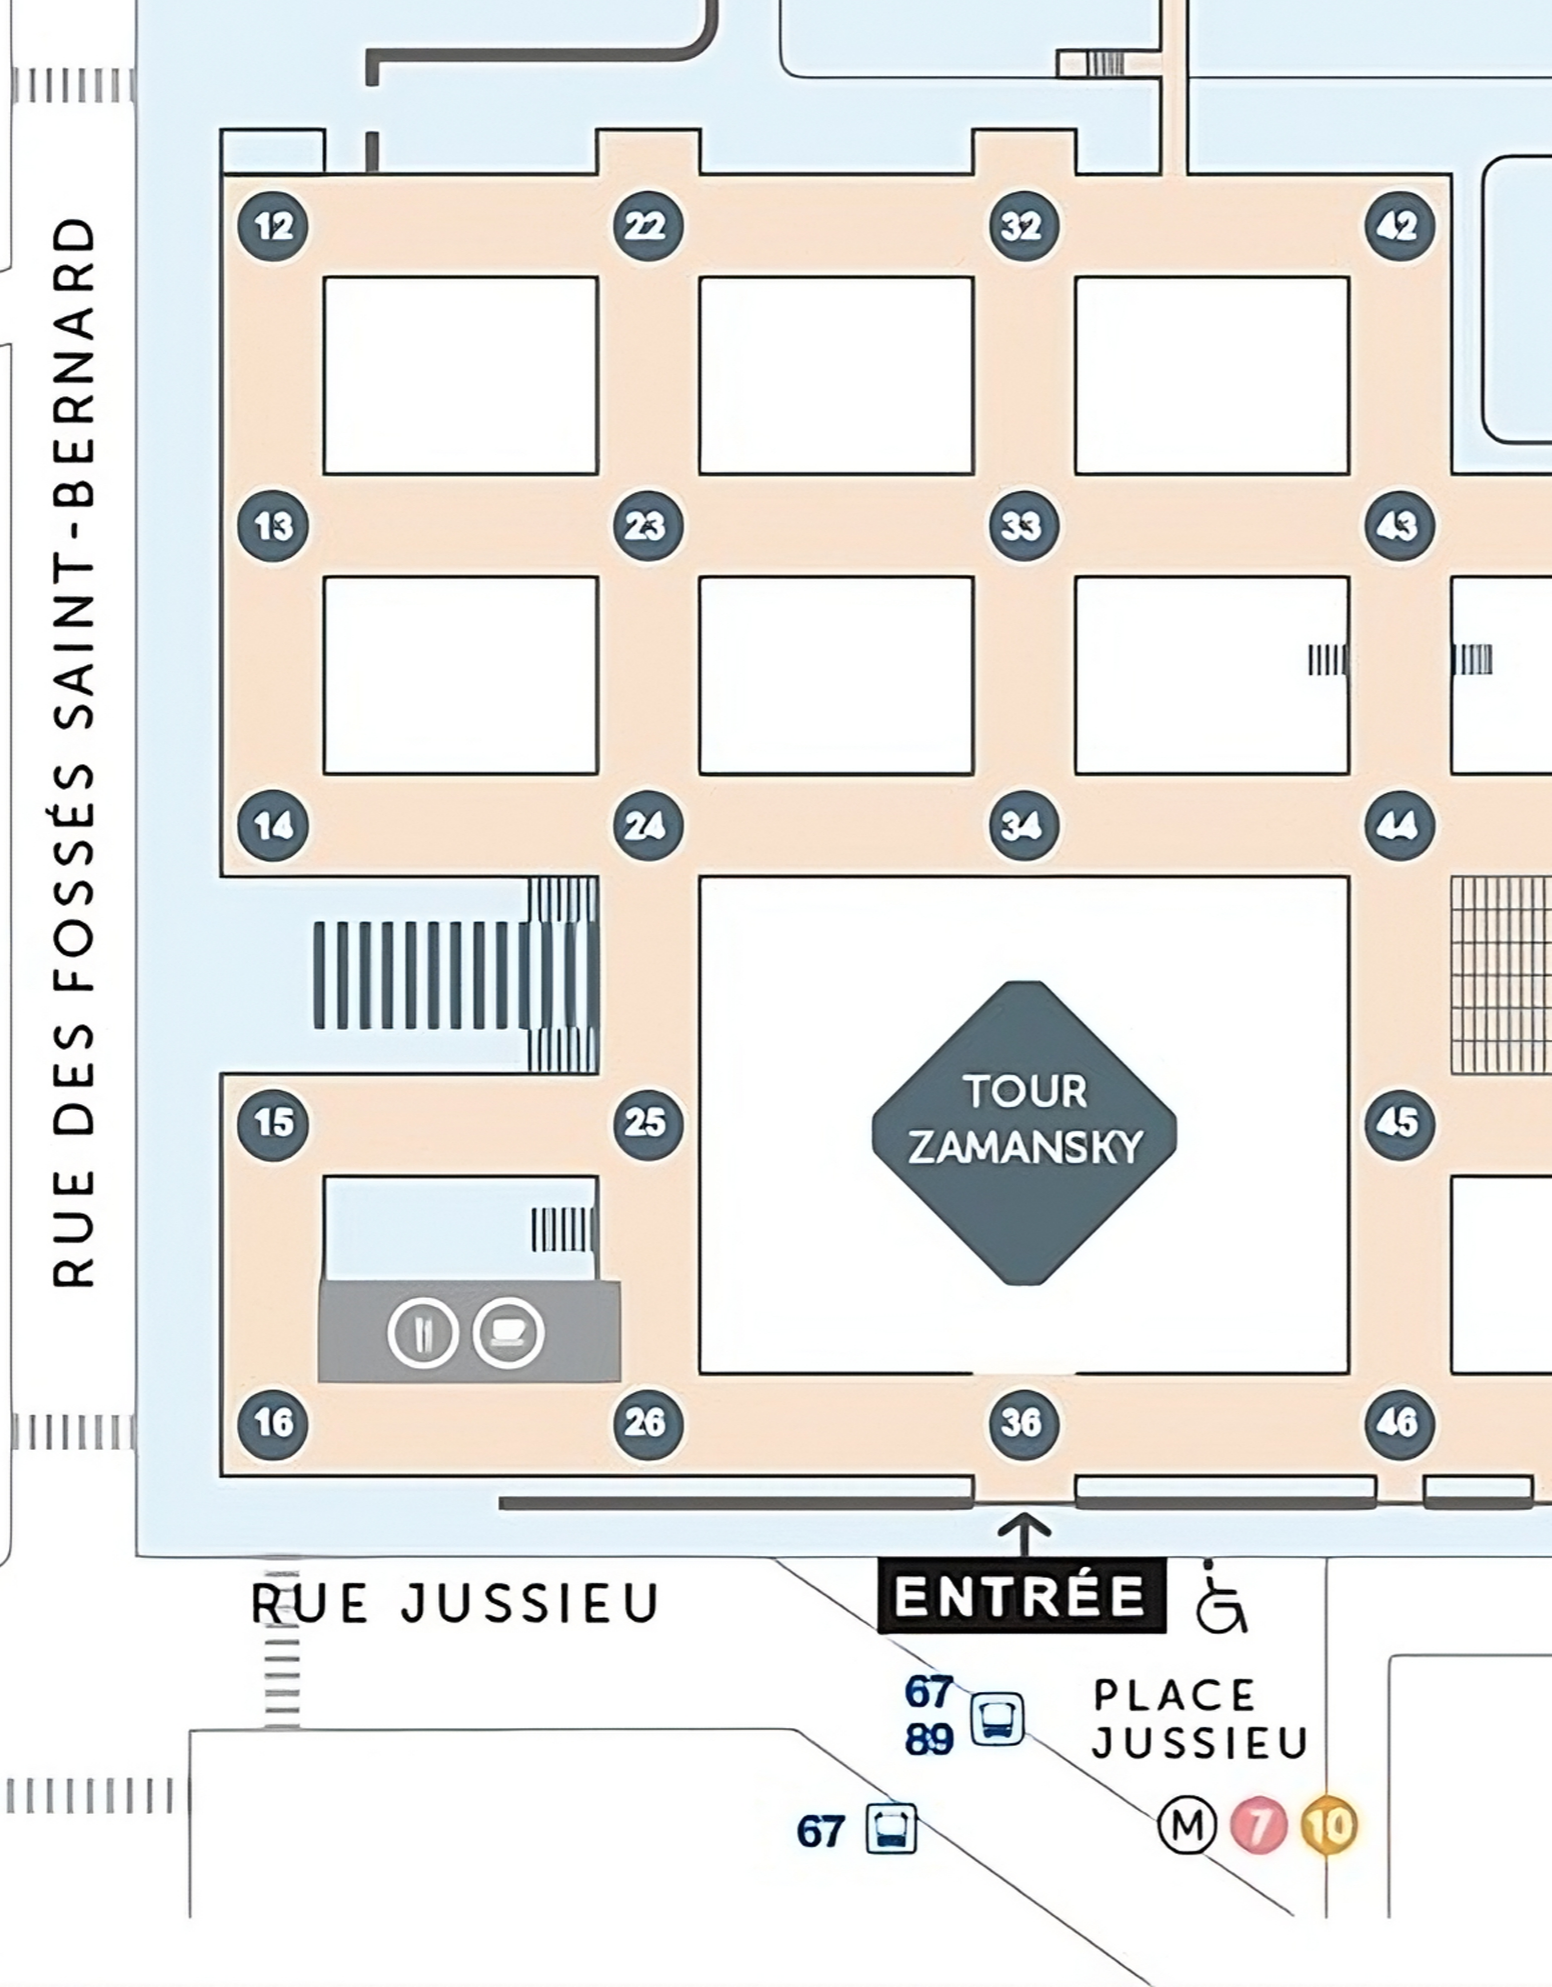
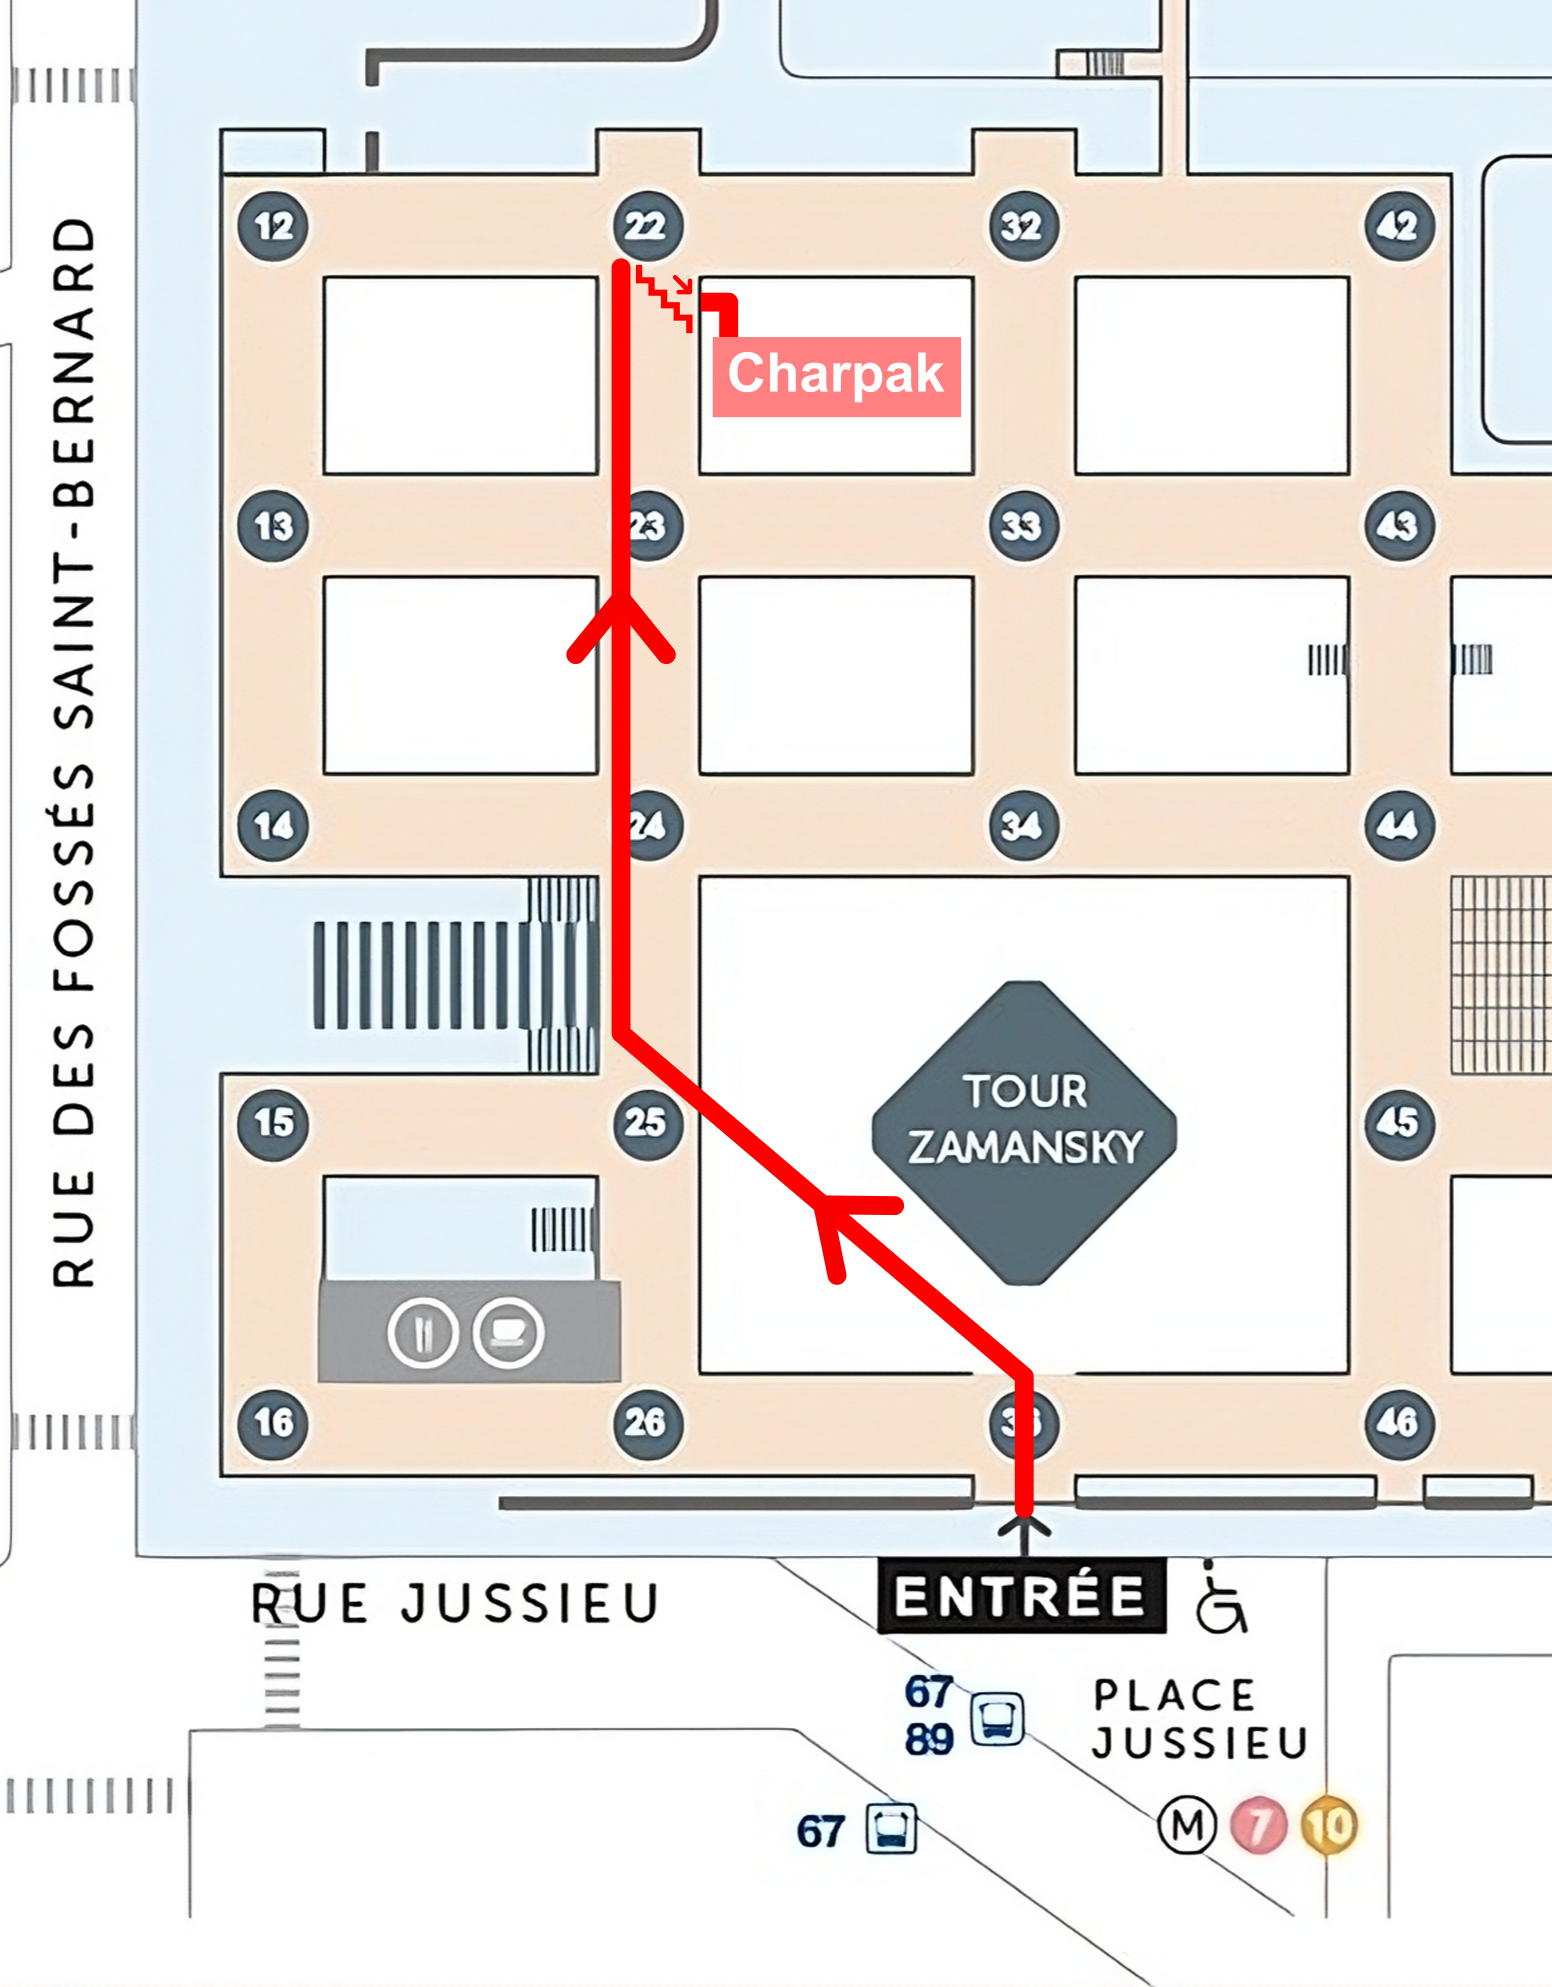
fixed location and directions

Changed region(s): [[0.3711, 0.1248, 0.6186, 0.5617], [0.4639, 0.5617, 0.6495, 0.6865], [0.6495, 0.6865, 0.6804, 0.7801]]

diff --git a/fr.html b/fr.html
@@ -39,12 +39,12 @@
         <!-- Bouton d'ajout au calendrier (l’URL de la page est ajoutée par le script ci‑dessous) -->
         <add-to-calendar-button 
           name="Soutenance — Mattéo Dommanget‑Kott"
-          description="Soutenance de thèse à l’Amphithéâtre Charpak, Campus Jussieu. Accès : Métro lignes 7 ou 10 (Jussieu), puis tour 32, descendre d’un niveau (RC/Saint‑Bernard) et suivre la signalétique Charpak. Détails : {PAGE_URL}"
+          description="Soutenance de thèse à l’Amphithéâtre Charpak, Campus Jussieu. Accès : Métro lignes 7 ou 10 (Jussieu), puis tour 22, descendre d’un niveau (RC/Saint‑Bernard) et suivre la signalétique Charpak. Détails : {PAGE_URL}"
           startDate="2025-10-16"
           startTime="10:00"
           endTime="13:00"
           timeZone="Europe/Paris"
-          location="48.847901, 2.356584"
+          location="48.848065, 2.356327"
           options="'Apple','Google','iCal','Outlook.com','Yahoo'"
           language="fr"
         ></add-to-calendar-button>
@@ -57,7 +57,7 @@
         <div>
           <p><strong>Adresse.</strong> 4 Place Jussieu, 75005 Paris, France</p>
           <p><strong>Métro.</strong> Lignes 7 ou 10, station <em>Jussieu</em>.</p>
-          <p><strong>À pied.</strong> Rejoindre la tour 32, descendre d’un niveau au <em>RC/Saint‑Bernard</em>, puis suivre la signalétique <em>Charpak</em>.</p>
+          <p><strong>À pied.</strong> Rejoindre la tour 22, descendre d’un niveau au <em>RC/Saint‑Bernard</em>, puis suivre la signalétique <em>Charpak</em>.</p>
           <div id="map" role="region" aria-label="Carte pour l’amphithéâtre Charpak"></div>
         </div>
         <div class="img-card">
@@ -89,10 +89,12 @@
         <button class="btn" id="toggle-abs-fr" type="button">Afficher le résumé</button>
       </div>
       <div id="abstract-fr" class="abstract">
-        <p>Une question centrale en neurosciences est de comprendre comment l’activité cérébrale se généralise d’un individu à l’autre. Les paradigmes classiques basés sur des tâches ou des stimuli s’appuient sur l’alignement anatomique et temporel des enregistrements cérébraux, ainsi que sur le moyennage des données. Ces stratégies se révèlent toutefois inefficaces pour étudier l’activité cérébrale spontanée, car aucun repère temporel commun ne relie les individus. Dans cette thèse, nous proposons des modèles statistiques permettant de comparer l’activité neuronale spontanée chez la larve de poisson‑zèbre. À l’aide de la microscopie fonctionnelle à feuille de lumière, nous enregistrons l’activité de l’ensemble du cerveau à résolution cellulaire et nous utilisons des Modèles de Markov ainsi que des Machines de Boltzmann Restreintes (Restricted Boltzmann Machines, RBM) pour générer des représentations interprétables du comportement et des dynamiques neuronales.</p>
-        <p>Nous commençons par modéliser la dynamique de réorientation de la larve de poisson‑zèbre pendant la nage libre avec un Modèle de Markov caché (Hidden Markov Model, HMM) à trois états moteurs&nbsp;: avant, gauche et droite. Ce même HMM décrit l’activité de la région ARTR (Anterior Rhombencephalic Turning Region) et relie directement la dynamique neuronale au comportement. Nos résultats suggèrent qu’une activation bilatérale équilibrée de l’ARTR pourrait expliquer l’état «&nbsp;avant&nbsp;».</p>
-        <p>Nous développons ensuite deux procédures pour entraîner des RBM capables de projeter l’activité neuronale de plusieurs poissons dans un espace latent commun. La première entraîne une RBM unique à partir de l’activité voxelisée et concaténée de plusieurs poissons. La seconde est un paradigme «&nbsp;enseignant‑élève&nbsp;» où chaque RBM est entraînée sur un poisson unique, mais contrainte de partager ses unités cachées avec les autres. Ces approches produisent une représentation commune qui permet de transférer fidèlement des motifs d’activité d’un individu à l’autre et révèle des régularités conservées entre cerveaux.</p>
-        <p>Nous exploitons enfin cet espace latent pour segmenter l’activité spontanée en états cérébraux discrets et mesurer leurs transitions markoviennes. Nous constatons que les séquences d’états suivent des règles stéréotypées d’un animal à l’autre, ce qui confirme que l’activité spontanée encode des «&nbsp;priors&nbsp;» intrinsèques du calcul neural. En conclusion, nos résultats montrent comment des modèles génératifs probabilistes peuvent surmonter la variabilité individuelle et révéler des principes d’organisation communs entre cerveaux chez les vertébrés. La thèse fournit une boîte à outils pour comparer l’activité spontanée entre sujets et souligne la valeur interprétative des RBM et des HMM.</p>
+        <p>Une question centrale en neurosciences est de comprendre comment l’activité cérébrale se généralise d’un individu à l’autre. Les paradigmes classiques basés sur des tâches ou des stimuli s’appuient sur l’alignement anatomique et temporel des enregistrements cérébraux, ainsi que sur le moyennage des données. Ces stratégies se révèlent toute fois inefficaces pour étudier l’activité cérébrale spontanée, car aucun repère temporel commun ne relie les individus.</p>
+        <p>Dans cette thèse, nous proposons des modèles statistiques permettant de comparer l’activité neuronale spontanée chez la larve de poisson-zèbre. À l’aide de la microscopie fonctionnelle à feuille de lumière, nous enregistrons l’activité de l’ensemble du cerveau à résolution cellulaire et nous utilisons des Modèles de Markov ainsi que des Machines de Boltzmann Restreintes (Restricted Boltzmann Machines, RBM) pour générer des représentations interprétables du comportement et des dynamiques neuronales.</p>
+        <p>Nous commençons par modéliser la dynamique de réorientation de la larve de poisson-zèbre pendant la nage libre avec un Modèle de Markov caché (Hidden Markov Model, HMM) à trois états moteurs : avant, gauche et droite. Ce même HMM décrit l’activité de la région ARTR (Anterior Rhombencephalic Turning Region) et relie directement la dynamique neuronale au comportement. Nos résultats suggèrent qu’une activation bilatérale équilibrée de l’ARTR pourrait expliquer l’état "avant".</p>
+        <p>Nous développons ensuite deux procédures pour entraîner des RBMs capables de projeter l’activité neuronale de plusieurs poissons dans un espace latent commun. La première entraîne une RBM unique à partir de l’activité voxélisée et concaténée de plusieurs poissons. La seconde est un paradigme "enseignant-élève" où chaque RBM est entraînée sur un poisson unique, mais sont contraintes entre elles de manière à partager leurs unités cachées. Ces approches produisent une représentation commune qui permet de transférer fidèlement des motifs d’activité d’un individu à l’autre et révèle des régularités conservées entre cerveaux.</p>
+        <p>Nous exploitons enfin cet espace latent pour segmenter l’activité spontanée en états cérébraux discrets, et mesurer leurs transitions markoviennes. Nous constatons que les séquences d’états suivent des règles stéréotypées d’un animal à l’autre, ce qui confirme que l’activité spontanée encode des priors intrinsèques du calcul neural.</p>
+        <p>En conclusion, nos résultats montrent comment des modèles génératifs probabilistes peuvent surmonter la variabilité individuelle, et révéler des principes d’organisation communs entres cerveaux chez les vertébrés. La thèse fournit une boîte à outils pour comparer l’activité spontanée entre sujets et souligne la valeur interprétative des RBM et des HMM.</p>
       </div>
     </section>
 
@@ -107,7 +109,7 @@
     }
 
     // Carte Leaflet
-    const lat = 48.847889, lon = 2.3565;
+    const lat = 48.848022, lon = 2.356315;
     const map = L.map('map').setView([lat, lon], 16);
     L.tileLayer('https://{s}.tile.openstreetmap.org/{z}/{x}/{y}.png', {
       maxZoom: 19,

diff --git a/en.html b/en.html
@@ -39,12 +39,12 @@
         <!-- Calendar button (the page URL is appended by script below) -->
         <add-to-calendar-button 
           name="PhD Defense — Mattéo Dommanget‑Kott"
-          description="PhD defense at Amphithéâtre Charpak, Campus Jussieu. Getting there: Metro lines 7 or 10 (Jussieu), then head to tower 32, go down one level to RC/Saint‑Bernard and follow the Charpak signs. Details: {PAGE_URL}"
+          description="PhD defense at Amphithéâtre Charpak, Campus Jussieu. Getting there: Metro lines 7 or 10 (Jussieu), then head to tower 22, go down one level to RC/Saint‑Bernard and follow the Charpak signs. Details: {PAGE_URL}"
           startDate="2025-10-16"
           startTime="10:00"
           endTime="13:00"
           timeZone="Europe/Paris"
-          location="48.847901, 2.356584"
+          location="48.848065, 2.356327"
           options="'Apple','Google','iCal','Outlook.com','Yahoo'"
         ></add-to-calendar-button>
       </div>
@@ -56,7 +56,7 @@
         <div>
           <p><strong>Address.</strong> 4 Place Jussieu, 75005 Paris, France</p>
           <p><strong>Metro.</strong> Lines 7 or 10, station <em>Jussieu</em>.</p>
-          <p><strong>On foot.</strong> Walk to tower 32, go down one level to <em>RC/Saint‑Bernard</em>, follow the <em>Charpak</em> signs.</p>
+          <p><strong>On foot.</strong> Walk to tower 22, go down one level to <em>RC/Saint‑Bernard</em>, follow the <em>Charpak</em> signs.</p>
           <div id="map" role="region" aria-label="Map to the Charpak amphitheater"></div>
         </div>
         <div class="img-card">
@@ -88,7 +88,12 @@
         <button class="btn" id="toggle-abs-en" type="button">Show abstract</button>
       </div>
       <div id="abstract-en" class="abstract">
-        <p><em>Abstract coming soon.</em> Add your English abstract by editing <code>en.html</code> (search for <code>id="abstract-en"</code>).</p>
+        <p>Understanding how brain activity generalises across individuals remains a central challenge in neuroscience. Classical task- or stimulus-driven paradigms align recordings by trial-averaging and registration, but these techniques break down for spontaneous activity, where no common temporal reference exists.</p>
+        <p>This thesis develops statistical frameworks that enable direct, cross-individual comparison of spontaneous activity in larval zebrafish. Leveraging whole-brain, single-cell calcium imaging acquired with light-sheet functional microscopy, we use Markov Models and Restricted Boltzmann Machines (RBMs) to build generative, interpretable representations of behavior and neural activity.</p>
+        <p>First, we characterize spontaneous swimming reorientation with a Hidden Markov Model (HMM) comprising forward, left, and right motor states. The same 3-state architecture also captures the activity of the Anterior Rhombencephalic Turning Region (ARTR), linking neural dynamics to behavior and suggesting that balanced bilateral ARTR activity mediates the forward state.</p>
+        <p>Next, we introduce two strategies for training RBMs that embed the neural activity of multiple fish into a common latent space. A voxel-based approach trains a single RBM on pooled recordings, while a teacher-student paradigm constrains individual-fish RBMs to shared hidden units. The shared representation allows realistic activity patterns to be transferred between animals, demonstrating that the model captures generic structures conserved across brains.</p>
+        <p>Finally, we exploit the common latent space to segment spontaneous activity into discrete brain states and quantify their Markovian transition statistics. We find that state-to-state dynamics are remarkably stereotyped across individuals, supporting the hypothesis that spontaneous activity reflects intrinsic priors of neural computation</p>
+        <p>In conclusion, our results show how probabilistic generative models can bridge individual variability and reveal shared organisational principles of vertebrate brains. The thesis provides a toolbox for cross-subject comparison of spontaneous activity, and underscores the biological interpretability of probabilistic models.</p>
       </div>
     </section>
 
@@ -103,7 +108,7 @@
     }
 
     // Leaflet map
-    const lat = 48.847889, lon = 2.3565;
+    const lat = 48.848022, lon = 2.356315;
     const map = L.map('map').setView([lat, lon], 16);
     L.tileLayer('https://{s}.tile.openstreetmap.org/{z}/{x}/{y}.png', {
       maxZoom: 19,
